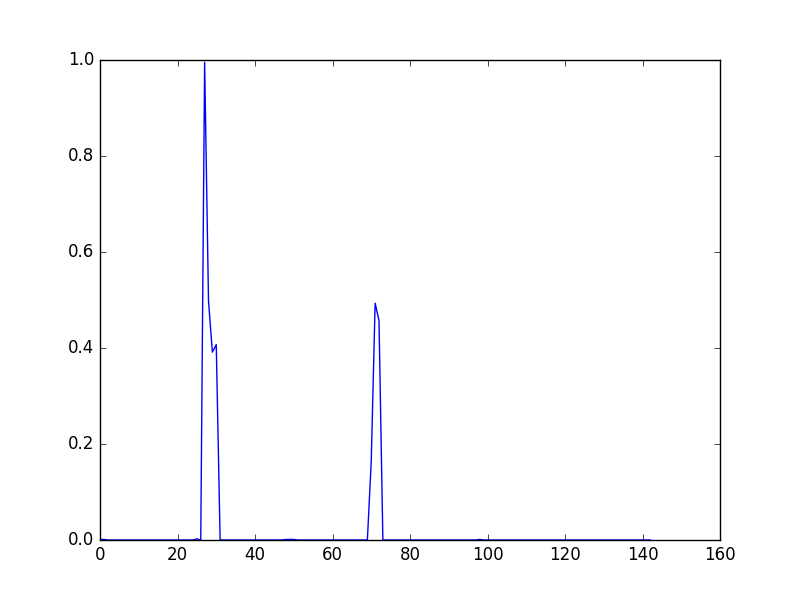
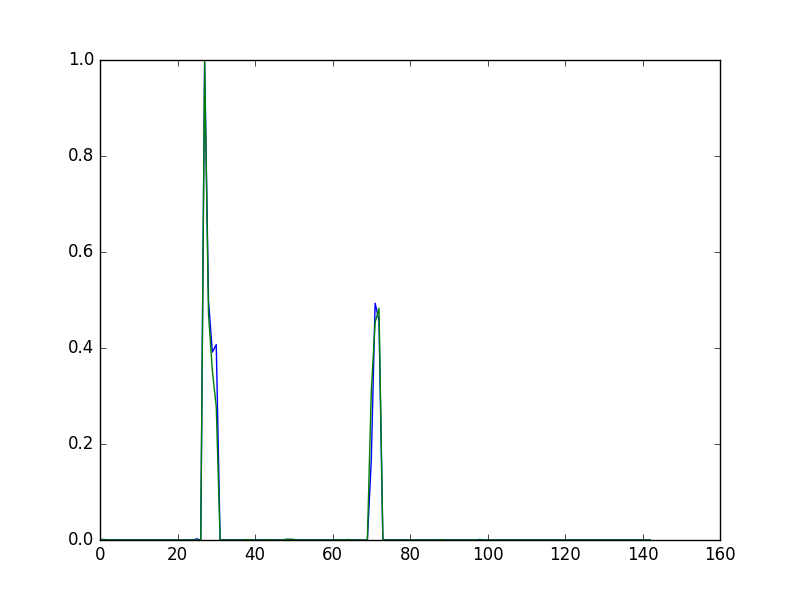
+ve and -ve together plot

diff --git a/siddharth_standard_architecture/model2.py b/siddharth_standard_architecture/model2.py
@@ -35,22 +35,16 @@ for i in range(0,total_q_tags):
 	y_test.append(np.append(np.zeros(total_sample_count - train_sample_count),np.ones(total_sample_count - train_sample_count)))
 	#print X_train[i].shape, y_train[i].shape, X_test[i].shape, y_test[i].shape
 	#yo = np.divide(np.sum(z1,axis = 0),z1.shape[0])
-	yo = np.sum(z1,axis = 0)
+	yo = np.divide(np.sum(X1[i],axis = 0),X1[i].shape[0])
 	best_e_tags_in_positive.append(np.argmax(yo))
-	#print best_e_tags_in_positive[i]
-	#print i,"$$$$$$$$$$$$$", yo
 	plt.plot(yo)
+	yo = np.divide(np.sum(X0[i],axis = 0),X0[i].shape[0])
+        best_e_tags_in_negative.append(np.argmax(yo))
+        plt.plot(yo)
 	fig1 = plt.gcf()
-        fig1.savefig("total_plots/"+str(i))
+        fig1.savefig("plots/"+str(i))
 	plt.clf()
 
-for i in range(0,total_q_tags):
-	yo = np.divide(np.sum(X0[i],axis = 0),X0[i].shape[0])
-	best_e_tags_in_negative.append(np.argmax(yo))
-	plt.plot(yo)
-        fig1 = plt.gcf()
-        fig1.savefig("plots_negative/"+str(i))
-        plt.clf()
 
 print np.array(best_e_tags_in_negative) == np.array(best_e_tags_in_positive)
 
